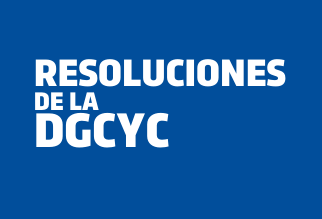
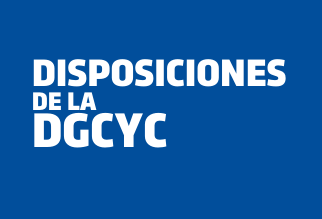
botones redondos

diff --git a/resoluciones.html b/resoluciones.html
@@ -225,7 +225,7 @@ $('#selectCategory').change(function(){
       <section class="section-30 section-sm-40 section-md-66 section-lg-bottom-90 bg-gray-dark page-title-wrap">
         <div class="shell">
           <div class="page-title">
-            <h2>#RESOLUCIONES DE LA DGCYC</h2>
+            <h2>#DISPOSICIONES DE LA DGCYC</h2>
           </div>
         </div>
       </section>
@@ -237,7 +237,7 @@ $('#selectCategory').change(function(){
 
         <div class="cell-sm-6 offset-top-30 text-center">
 
-        <div class="bg-naranja p-3 redondeado shadowh">
+        <div class="bg-naranja p-3  shadowh" style="border-radius:50px; cursor:pointer;">
           <h3 class=" text-white"> Bienes y Servicios </h3>
 
 
@@ -246,7 +246,7 @@ $('#selectCategory').change(function(){
 
         <div class="cell-sm-6 offset-top-30 text-center">
 
-        <div class="bg-naranja p-3 redondeado shadowh">
+        <div class="bg-naranja p-3  shadowh" style="border-radius:50px; cursor:pointer;">
           <h3 class=" text-white"> Obra Pública </h3>
 
 
@@ -254,7 +254,7 @@ $('#selectCategory').change(function(){
         </div>
         <div class="cell-sm-6 offset-top-30 text-center">
 
-        <div class="bg-naranja p-3 redondeado shadowh">
+        <div class="bg-naranja p-3  shadowh" style="border-radius:50px; cursor:pointer;">
           <h3 class=" text-white"> ROPyCE </h3>
 
 
@@ -262,7 +262,7 @@ $('#selectCategory').change(function(){
         </div>
         <div class="cell-sm-6 offset-top-30 text-center">
 
-        <div class="bg-naranja p-3 redondeado shadowh">
+        <div class="bg-naranja p-3  shadowh" style="border-radius:50px; cursor:pointer;">
           <h3 class=" text-white"> Sanciones </h3>
 
 
@@ -270,7 +270,7 @@ $('#selectCategory').change(function(){
         </div>
         <div class="cell-sm-6 offset-top-30 text-center">
 
-        <div class="bg-naranja p-3 redondeado shadowh">
+        <div class="bg-naranja p-3  shadowh" style="border-radius:50px; cursor:pointer;">
           <h3 class=" text-white"> Otras </h3>
 
 

diff --git a/otrasnormativas.html b/otrasnormativas.html
@@ -237,7 +237,7 @@ $('#selectCategory').change(function(){
 
         <div class="cell-sm-6 offset-top-30 text-center">
 
-        <div class="bg-naranja p-3 redondeado shadowh">
+        <div class="bg-naranja p-3  shadowh" style="border-radius:50px; cursor:pointer;">
           <h3 class=" text-white"> LEYES </h3>
 
 
@@ -246,7 +246,7 @@ $('#selectCategory').change(function(){
 
         <div class="cell-sm-6 offset-top-30 text-center">
 
-        <div class="bg-naranja p-3 redondeado shadowh">
+        <div class="bg-naranja p-3  shadowh" style="border-radius:50px; cursor:pointer;">
           <h3 class=" text-white"> DECRETOS </h3>
 
 
@@ -254,7 +254,7 @@ $('#selectCategory').change(function(){
         </div>
         <div class="cell-sm-6 offset-top-30 text-center">
 
-        <div class="bg-naranja p-3 redondeado shadowh">
+        <div class="bg-naranja p-3  shadowh" style="border-radius:50px; cursor:pointer;">
           <h3 class=" text-white"> OTRAS RESOLUCIONES </h3>
 
 

diff --git a/leyesydecretos.html b/leyesydecretos.html
@@ -237,16 +237,16 @@ $('#selectCategory').change(function(){
 
         <div class="cell-sm-6 offset-top-30 text-center">
 
-        <div class="bg-naranja p-3 redondeado shadowh">
+        <div class="bg-naranja p-3 redondeado shadowh" style="border-radius:50px; cursor:pointer;">
           <h3 class=" text-white"> Obra Pública </h3>
 
 
           </div>
         </div>
 
-        <div class="cell-sm-6 offset-top-30 text-center">
+        <div class="cell-sm-6 offset-top-30 text-center" >
 
-        <div class="bg-naranja p-3 redondeado shadowh">
+        <div class="bg-naranja p-3  shadowh" style="border-radius:50px; cursor:pointer;">
           <h3 class=" text-white"> Bienes y Servicios </h3>
 
 

diff --git a/normativa.html b/normativa.html
@@ -175,7 +175,7 @@ En esta sección, podrás consultar y descargar la normativa vigente que regula 
         </div>
 
         <section class="section-10 ">
-              <div class="  text-center boxshadow redondeado ">
+              <div class="  text-center redondeado ">
                 <div class=" offset-top-40 ">
 
                   <div class="range  ">
